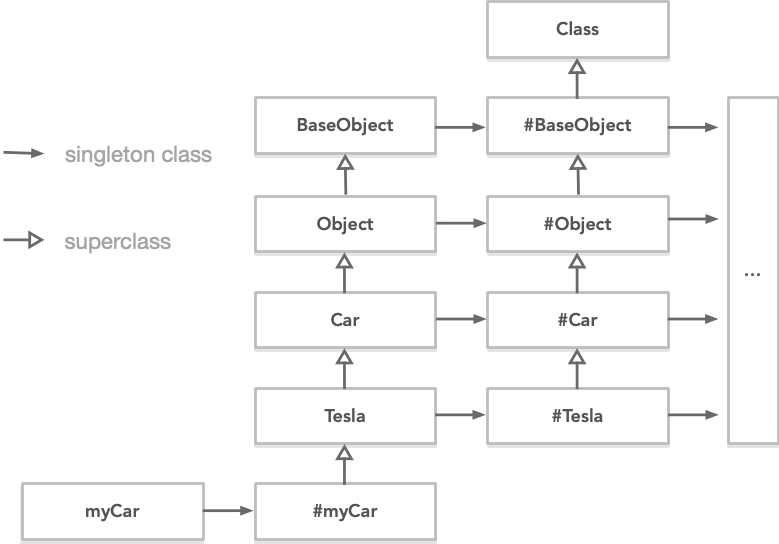
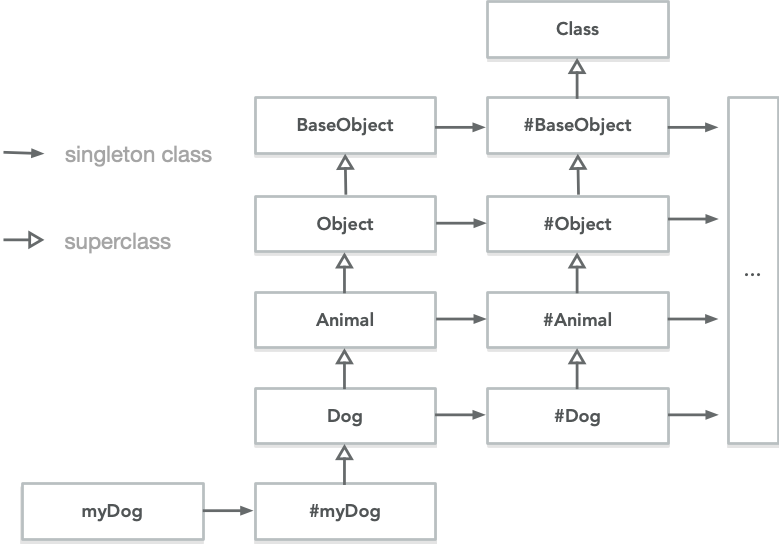
u

diff --git a/source/_drafts/Objective-CSingletonClass.md b/source/_drafts/Objective-CSingletonClass.md
@@ -3,22 +3,103 @@ title: Ruby 中的 Singleton Class 与 Objective-C 的 KVO
 tags:
 ---
 
-Ruby 是解释强类型动态语言，Objective-C 是编译弱类型(动态 & 静态)语言，两者看似没什么关联，但是实际上可以说是师出同门，它们很大程度上继承了 Smalltalk 的关键特性，所以很多设计理念是共通的，比如 Ruby 和 Objective-C 拥有相似的消息传递机制 (dynamic message dispatch)、对象模型 (object model —— object class metaclass)，并且都提供及其强大的运行时特性以及支撑运行时特性所需的接口等。
-
-
+Ruby 是解释强类型动态语言，Objective-C 是编译弱类型(动态 & 静态)语言，两者看似没什么关联，但是实际上可以说是师出同门，它们很大程度上继承了 Smalltalk 的关键特性，所以很多设计理念是共通的，比如 Ruby 和 Objective-C 拥有相似的消息传递机制 (dynamic message dispatch)、对象模型 (object model —— object class metaclass)，并且都提供及其强大的运行时特性以及支撑运行时特性所需的接口等。 Ruby 和 Objective-C 的异同其实有挺多可以说的，但是本文不会过多地去探讨，这里只是窥探下 singleton class 和 KVO 两个技术点间的联系。
 <!--more-->
+
+## 初始设定
+
+假设当前有 Animal 类，Dog 类继承自 Animal，分别用 Ruby 和 Objective-C 创建 Dog 对象。
+
+Ruby ：
+
+```ruby
+class Animal
+end
+
+class Dog < Animal
+  def bark
+    puts 'wangwang!'
+  end
+end
+
+myDog = Dog.new
+myDog.bark # wangwang!
+```
+
+Objective-C：
+
+```objc
+@interface Animal : NSObject
+@end
+@implementation Animal
+@end
+
+@interface Dog : Animal
+- (void)bark;
+@end
+@implementation Dog
+- (void)bark {
+    NSLog(@"wangwang!"); 
+}
+@end
+
+int main(int argc, const char * argv[]) {
+    @autoreleasepool {
+        Dog *myDog = [Dog new];
+        [myDog bark]; // wangwang!
+    }
+}
+```
+
+其中变量 myDog 指向的对象（下文为了方便统一用 myDog 对象描述）无法像 Dog 类对象一样，创建其他对象，所以这里将 myDog 对象称为终端对象 (terminal object)。
+
+既然师承 Smalltalk ，根据其对象模型，Dog 类就会负责描述 myDog 对象的行为，即 `bark` 方法将会保存在 Dog 类中，Dog 类也会是一个对象，并且 Dog 类对象也有对应的类用以描述自身行为，在 Ruby 中，这个创建 Dog 类实例的类叫 singleton class ，Objecitve-C 中则称为 metaclass 。Ruby 中的终端对象也可以有 singleton class ，Objecitve-C 在语言层面上并没有实现这一点。
 
 ## Ruby 的 Singleton Class
 
-singleton class 区别于 singleton pattern 中创建的 class，在 Ruby 的对象模型中，singleton class 又可以称作 metaclass（元类）、eigenclasses（特征类），这里统一称做单件类。
+首先要明确的是 singleton class 区别于 singleton pattern 中创建的 class，在 Ruby 的对象模型中，singleton class 又可以称作 metaclass（元类）、eigenclasses（特征类），这里统一称做单件类。
 
-![object-model-ruby](https://github.com/tripleCC/tripleCC.github.io/raw/hexo/source/images/object-model-ruby)
+考虑以下代码：
+
+```ruby
+myDog = Dog.new
+
+def myDog.bark
+  puts 'zizizi!'
+end
+
+myDog.bark # zizizi!
+
+yourDog = Dog.new
+yourDog.bark # wangwang!
+```
+
+在 Ruby 中，我们可以给特定对象定义专属的方法，可以知道的是，新定义的 `bark` 方法不在 Dog 类中，因为给 yourDog 发送 `bark` 消息后的输出并没有改变，这种针对单个对象定义的方法称为单件方法 (singleton method)。当我们定义单件方法或者调用 `singleton_class` 方法时，Ruby 会自动创建一个 "匿名类" 来保存单件方法，这个类就是单件类，`singleton_class` 方法用来访问单件类。
+
+除了使用上述的 `def` ，Ruby 还可以使用 `<<` 打开对象的单件类：
+
+```
+class << myDog
+  def bark
+    puts 'zizizi!'
+  end
+end
+```
+
+
+根据最新的示例代码，得到 Ruby 的对象模型图：
+
+![object-model-ruby](https://github.com/tripleCC/tripleCC.github.io/raw/hexo/source/images/object-model-ruby.png)
+
+需要注意的是，yourDog 对象是没有 #yourDog 单件类的，
 
 ## Objective-C 的 KVO
 
-![object-model-objective-c](https://github.com/tripleCC/tripleCC.github.io/raw/hexo/source/images/object-model-objective-c)
+![object-model-objective-c](https://github.com/tripleCC/tripleCC.github.io/raw/hexo/source/images/object-model-objective-c.png)
 
 ## 参考
+[objc kvo简单探索](https://blog.sunnyxx.com/2014/03/09/objc_kvo_secret/)
+
 [Smalltalk](https://en.wikipedia.org/wiki/Smalltalk)
 
 [Metaclass](https://en.wikipedia.org/wiki/Metaclass#In_Objective-C)
@@ -26,6 +107,8 @@ singleton class 区别于 singleton pattern 中创建的 class，在 Ruby 的对
 [Objective-C isn't what you think it is (if you think like a Rubyist)](https://genius.com/Soroush-khanlou-objective-c-isnt-what-you-think-it-is-if-you-think-like-a-rubyist-annotated)
 
 [In Ruby, are the terms “metaclass”, “eigenclass”, and “singleton class” completely synonymous and fungible?](https://stackoverflow.com/questions/25336033/in-ruby-are-the-terms-metaclass-eigenclass-and-singleton-class-complete)
+
+[Classes and Objects](https://ruby-doc.com/docs/ProgrammingRuby/html/classes.html)
 
 [Demystifying Ruby Singleton Classes](<http://leohetsch.com/demystifying-ruby-singleton-classes/>)
 
